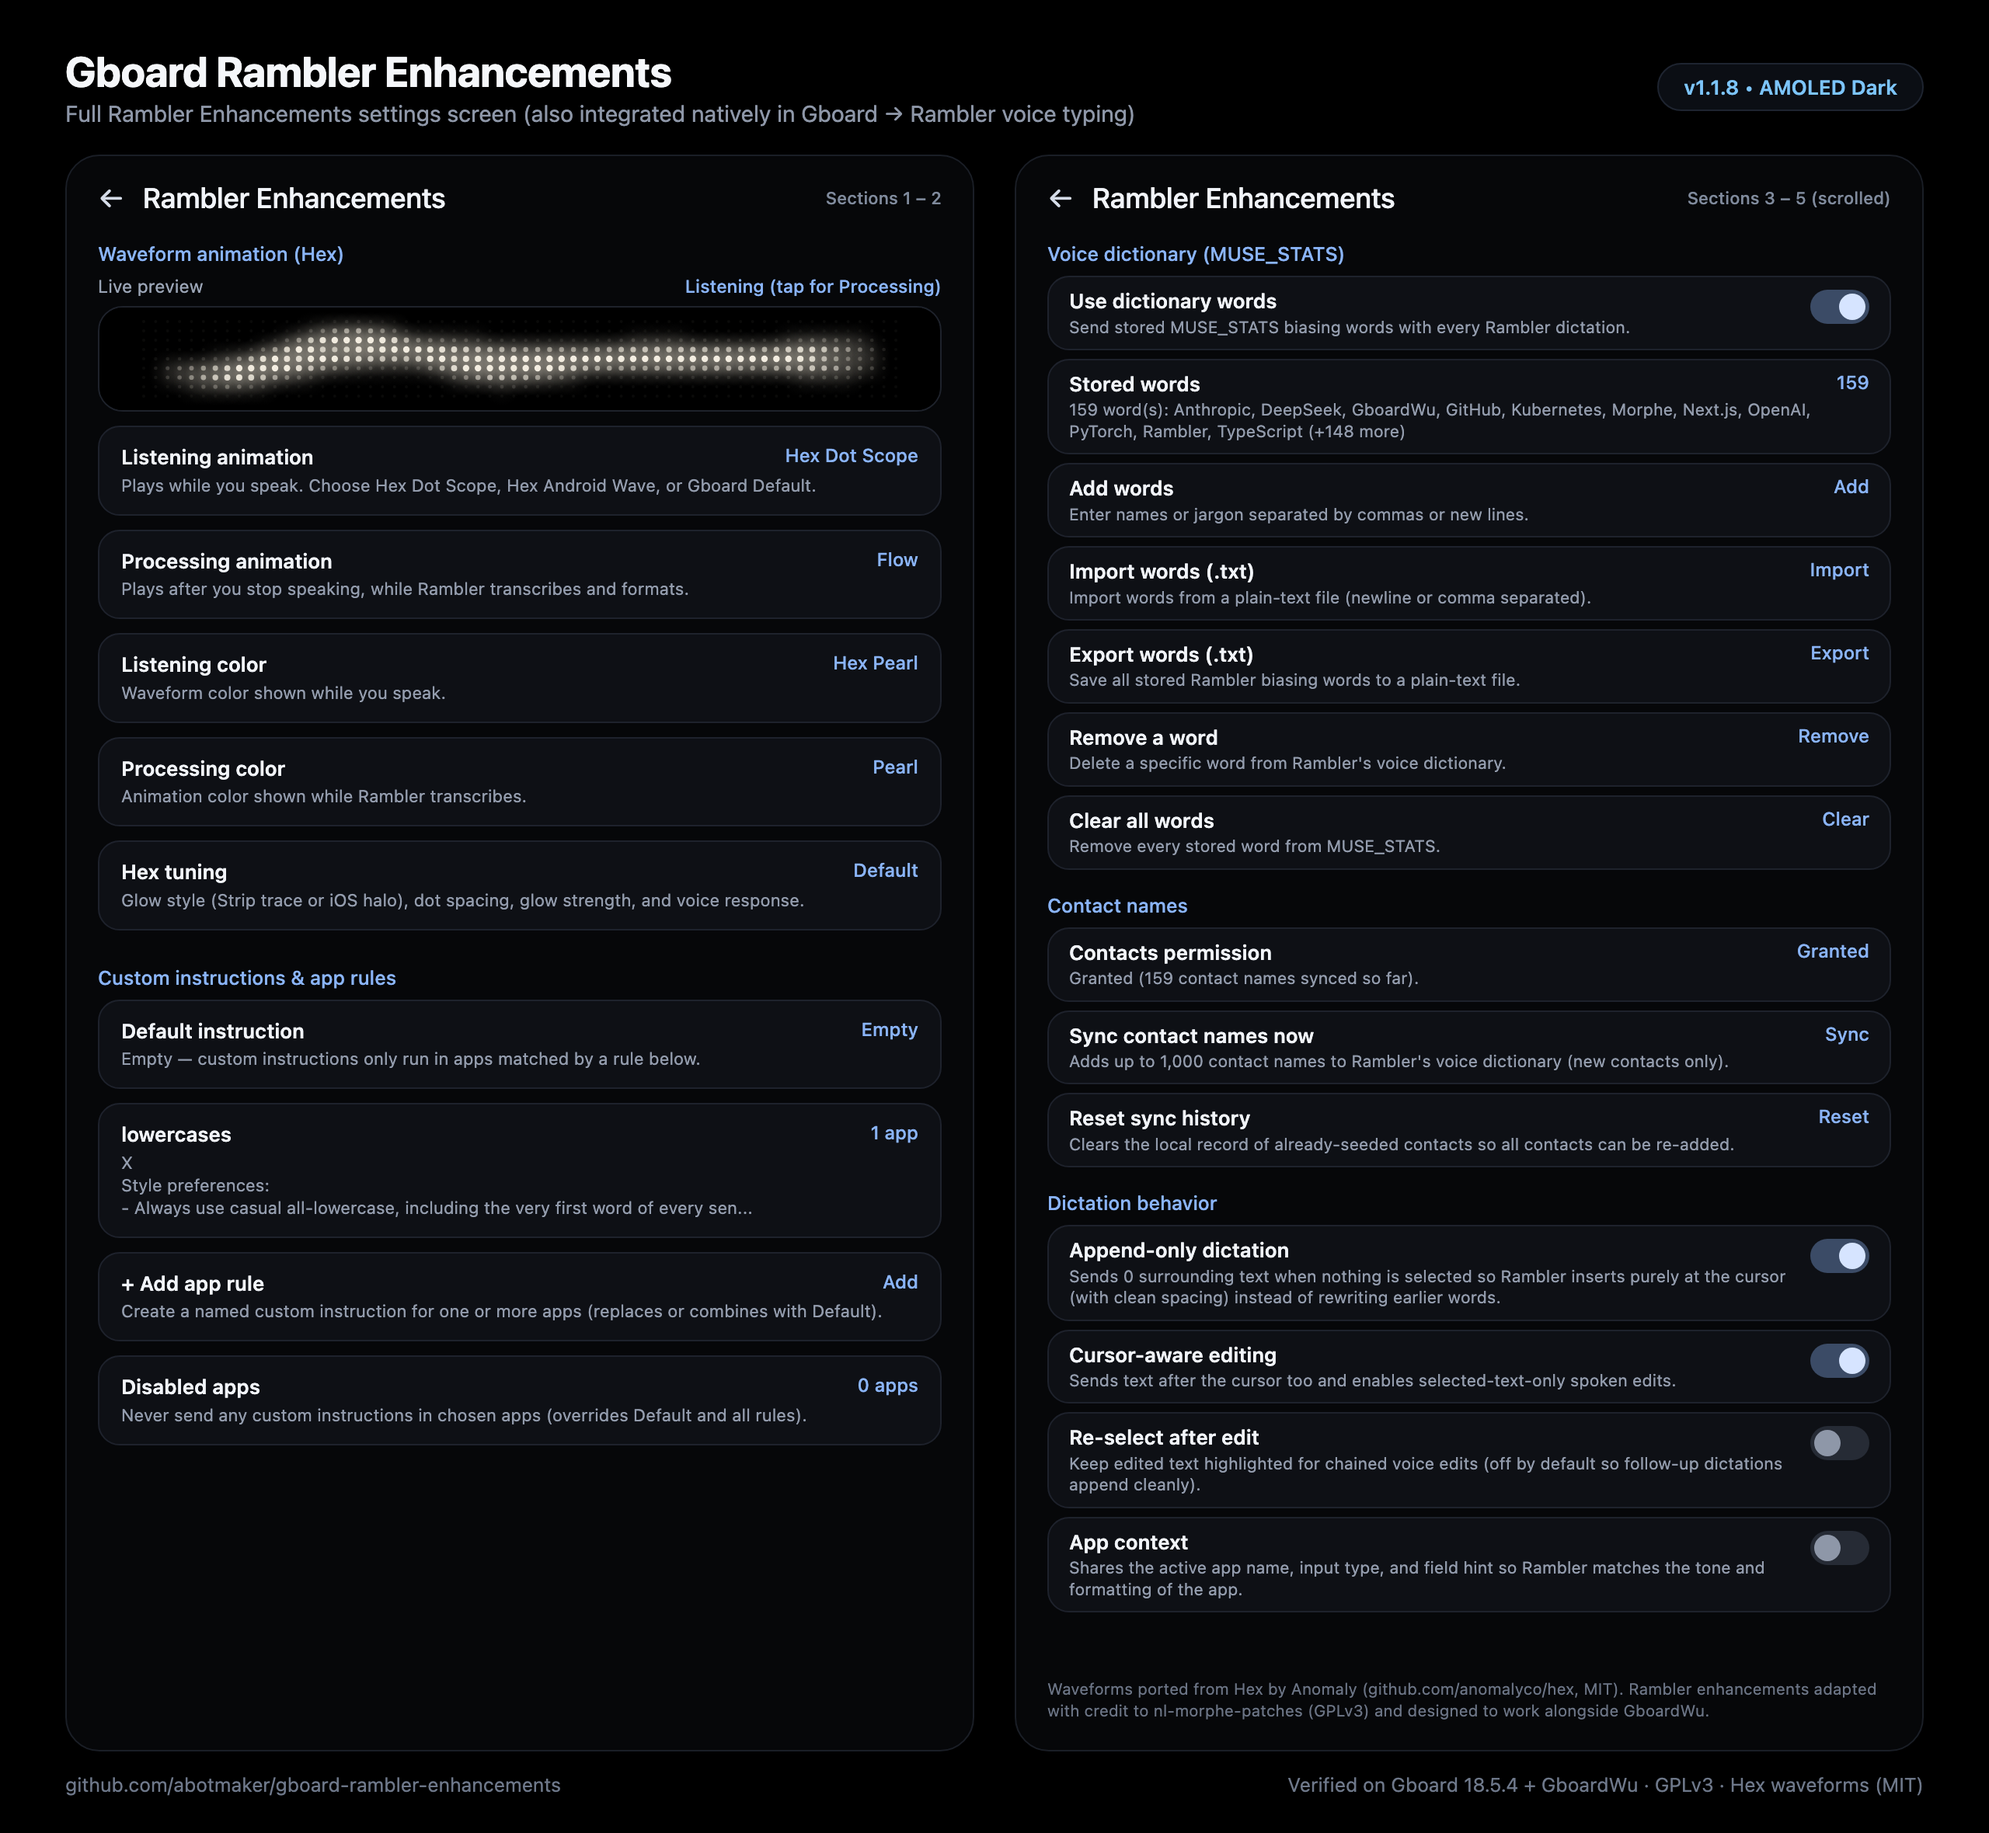
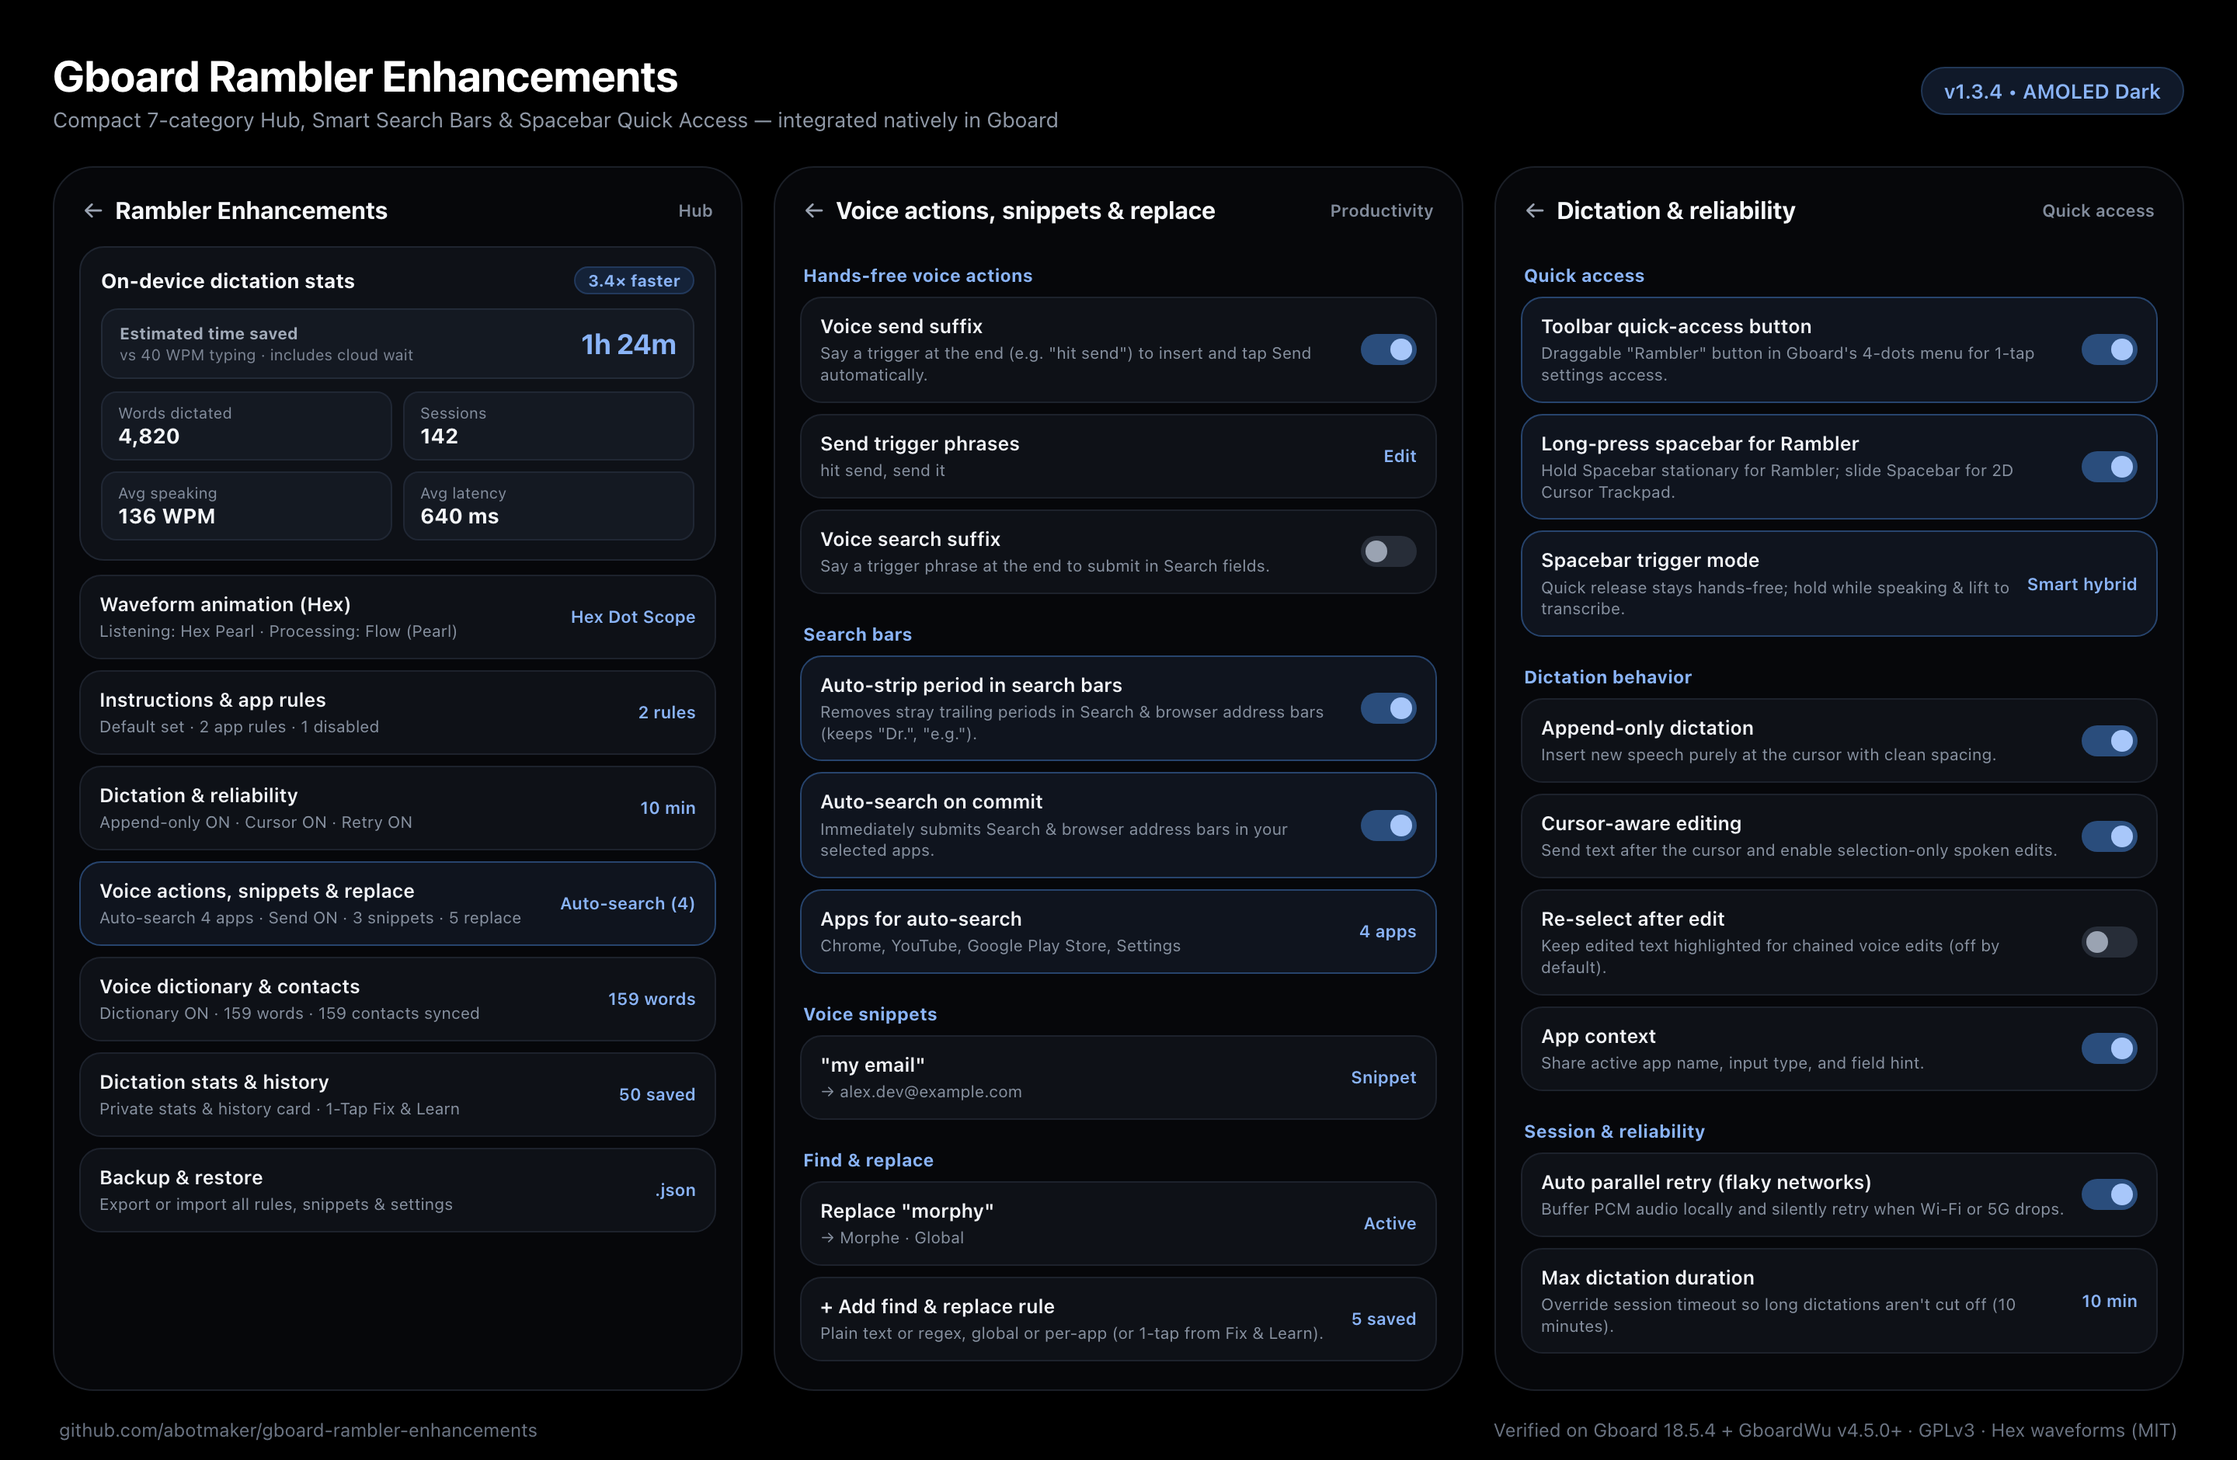
docs: update settings showcase image for v1.3.4 Hub, Search Bars, and Quick Access

diff --git a/README.md b/README.md
@@ -10,9 +10,9 @@ Standalone [Morphe](https://morphe.software) patches for **Gboard Rambler** — 
 </p>
 
 <details>
-  <summary>Settings &amp; Per-App Rules preview</summary>
+  <summary>Settings Hub, Smart Search Bars &amp; Spacebar Quick Access preview</summary>
   <p align="center">
-    <img src="assets/rambler-settings-and-rules-showcase.png" alt="Rambler settings preview" width="840" />
+    <img src="assets/rambler-settings-and-rules-showcase.png" alt="Rambler Enhancements v1.3.4 settings showcase" width="840" />
   </p>
 </details>
 
